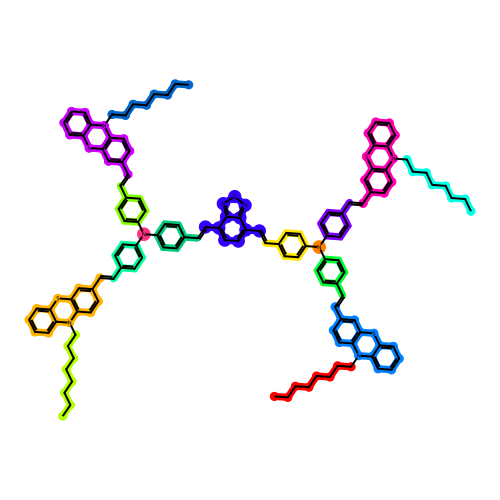
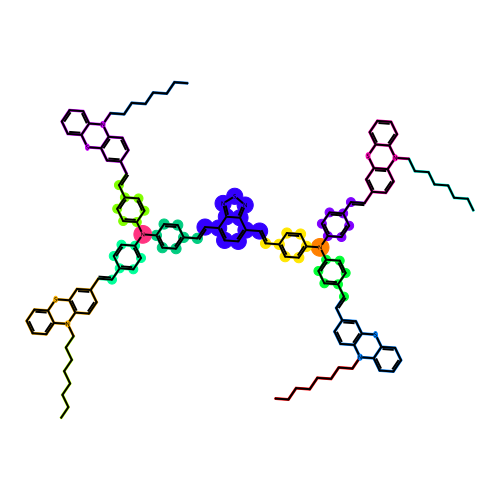
add 16 atom family names

Changed region(s): [[0.03, 0.15, 0.96, 0.84]]

diff --git a/code/plotting/plot_sme_graph.py b/code/plotting/plot_sme_graph.py
@@ -28,6 +28,7 @@ except Exception as e:
 
 fpath = "./plots-visuals/SME-Graphs/"
 
+#reset folder
 if os.path.exists(fpath):
     shutil.rmtree(fpath)
 
@@ -92,70 +93,35 @@ mol_num = 0
 
 for mol in data[:n_img_gen]:
     mol_num += 1
-
-    # No AddHs here -- atom_groups was filtered to heavy-atom-only indices
-    # at write time, and heavy-atom indices are unchanged by AddHs, so
-    # plain MolFromSmiles indices line up correctly.
     struct = Chem.MolFromSmiles(mol['smiles'])
 
     drawer = rdMolDraw2D.MolDraw2DCairo(500, 500)
     opts = drawer.drawOptions()
 
     opts.useBWAtomPalette()
-    opts.highlightBondWidthMultiplier = 20
 
-    # atom -> fragment color map
+    #generate group colors
     fragN = 0
     HAC = {}
-    atom_to_frag_color = {}
     for fragment in mol['atom_groups']:
-        color = FragColors[fragN % len(FragColors)]
         for atom in fragment:
-            HAC[atom] = color
-            atom_to_frag_color[atom] = color
+            HAC[atom] = FragColors[fragN]
         fragN += 1
 
-    # radii scaled by attribution magnitude, per-fragment
-    vals = np.array(list(mol['fragment_removal'].values()))
-    vmin, vmax = vals.min(), vals.max()
-
+    z_nums = [n for n in mol['fragment_removal'].values()]
+    m_val = np.mean(z_nums)
+    std_val = np.std(z_nums)
     radii = {}
     for key, rm_frag in mol['fragment_removal'].items():
-        if vmax == vmin:
-            radius = 0.3
-        else:
-            radius = 0.3 + 0.4 * (rm_frag - vmin) / (vmax - vmin)
-
         for atom in mol['atom_groups'][int(key)]:
-            radii[atom] = radius
-
-    # only highlight bonds INSIDE a fragment (both endpoints same fragment),
-    # colored to match -- this is what makes fragments read as solid
-    # connected blobs instead of separately-colored dots. Bonds BETWEEN
-    # fragments (the ones BRICS actually cut) are left unhighlighted so
-    # fragment boundaries are visually clear.
-    highlight_bonds = []
-    HBC = {}
-    for bond in struct.GetBonds():
-        a1, a2 = bond.GetBeginAtomIdx(), bond.GetEndAtomIdx()
-        c1 = atom_to_frag_color.get(a1)
-        c2 = atom_to_frag_color.get(a2)
-        if c1 is not None and c1 == c2:
-            highlight_bonds.append(bond.GetIdx())
-            HBC[bond.GetIdx()] = c1
+            radii[atom] = (rm_frag - m_val) / (2 * std_val)
 
     drawer.DrawMolecule(
         struct,
-        highlightAtoms=list(HAC.keys()),
-        highlightBonds=highlight_bonds,
+        highlightAtoms=list(range(struct.GetNumAtoms())),
         highlightAtomColors=HAC,
-        highlightBondColors=HBC,
         highlightAtomRadii=radii,
     )
-
     drawer.FinishDrawing()
-
     with open(f'{fpath}M{mol_num}-SME.png', 'wb') as f:
         f.write(drawer.GetDrawingText())
-
-print(f"Done. {mol_num} images written to {fpath}")

diff --git a/code/train_test.py b/code/train_test.py
@@ -20,13 +20,12 @@ from setup.process_data import absorption_data_options, generate_graphs_labels, 
 from models.sme import sme_attribution
 
 import json
-from rdkit import Chem
 
 # EASY CONTROLS vvv
 n_epochs = 4
 collect_data = True
 early_stopper = EarlyStop(9, 0.005)
-re_generate_data = False
+re_generate_data = True
 # EASY CONTROLS ^^^
 
 root_dir = os.path.abspath(os.path.join(os.path.dirname(__file__), ".."))
@@ -279,6 +278,7 @@ if __name__ == "__main__":
         f"EXTERNAL AVERAGE MAE (FINAL RESULTS): {test_avg_mae}\n-------------------------------")
 
     print("\n \n COMPUTING SME ATTR. ON TEST SET")
+
     model.eval()
     all_attr = []
     with torch.no_grad():
@@ -298,27 +298,12 @@ if __name__ == "__main__":
             batch_attrs = sme_attribution(model, data, frags_per_mol, mol_dicts, sol_fp, device, combo_search=True)
 
             for mol_dict, attrs in zip(mol_dicts, batch_attrs):
-                smiles = mol_dict["smiles"]
-
-                # Heavy-atom-only molecule -- H indices in atom_groups (computed
-                # on the AddHs'd molecule upstream) are all >= this count, since
-                # RDKit's AddHs appends Hs after existing heavy atoms without
-                # reordering them. So we can filter by index alone, no need to
-                # reconstruct the H-added molecule here.
-                heavy_mol = Chem.MolFromSmiles(smiles)
-                n_heavy = heavy_mol.GetNumAtoms()
-
-                filtered_atom_groups = [
-                    [a for a in group if a < n_heavy]
-                    for group in mol_dict["atom_groups"]
-                ]
-
-                fragment_removal = {str(k): v for k, v in attrs.items() if k != "combinations"}
+                fragment_attrs = {str(k): v for k, v in attrs.items() if k != "combinations"}
 
                 record = {
-                    "smiles": smiles,
-                    "atom_groups": filtered_atom_groups,  # heavy atoms only now
-                    "fragment_removal": fragment_removal,
+                    "smiles": mol_dict["smiles"],
+                    "atom_groups": [list(g) for g in mol_dict["atom_groups"]],
+                    "fragment_removal": fragment_attrs,
                 }
 
                 if "combinations" in attrs:

diff --git a/code/wrangling/model_generator.py b/code/wrangling/model_generator.py
@@ -154,7 +154,10 @@ def get_fallback_bond_indices(mol: Chem.Mol):
 
 
 def return_frags(mol, graph):
-    bonds_to_break = [b[0] for b in BRICS.FindBRICSBonds(mol)]
+    bric_bonds = list(BRICS.FindBRICSBonds(mol))
+    bonds_to_break = [b[0] for b in bric_bonds]
+    bonds_name = [b[1] for b in bric_bonds]
+
     bond_indices = [mol.GetBondBetweenAtoms(
         i, j).GetIdx() for i, j in bonds_to_break]
 
@@ -200,6 +203,14 @@ def return_frags(mol, graph):
         if frag_a != frag_b:
             gs_edges.add((min(frag_a, frag_b), max(frag_a, frag_b)))
 
+    frag_brics_types = {frag_id: set() for frag_id in range(len(atom_groups))}
+    for (atom_i, atom_j), (label_i, label_j) in zip(bonds_to_break, bonds_name):
+        frag_a = atom_to_frag[atom_i]
+        frag_b = atom_to_frag[atom_j]
+        frag_brics_types[frag_a].add(label_i)
+        frag_brics_types[frag_b].add(label_j)
+
+
     frag_fps = [
         fp_gen.GetFingerprint(mol=mol, fromAtoms=list(g)) for g in atom_groups
     ]
@@ -211,7 +222,8 @@ def return_frags(mol, graph):
         "gs_edges": gs_edges,
         "frag_fps": frag_fps,
         "entire_graph": graph,
-        "smiles": graph.smiles
+        "smiles": graph.smiles,
+        "frag_brics_types": frag_brics_types,
     }
 
     final_output = gen_data(fragmentation_output)
